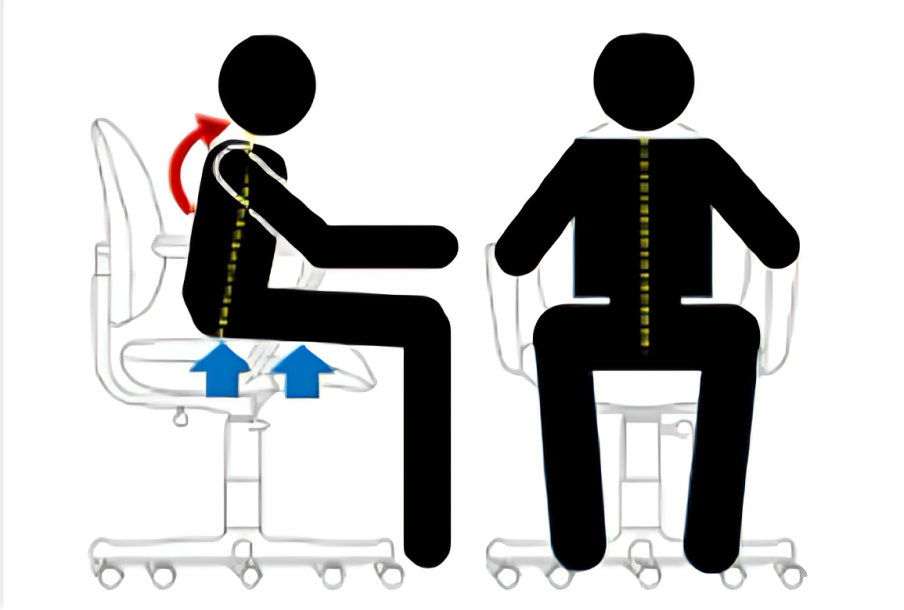
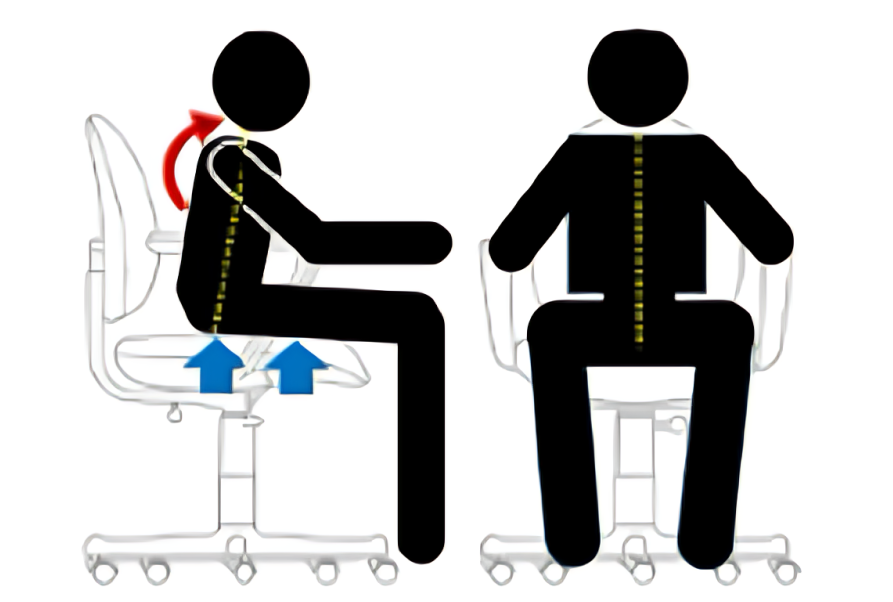
feat: add posture demo component and enhance sensor array functionality

diff --git a/lib/components/sensor-array.dart b/lib/components/sensor-array.dart
@@ -7,6 +7,7 @@ class SensorArray extends StatefulWidget {
   final double sensorSize;
   final bool showNumbers;
   final List<List<double>> sensorValues;
+  final bool flipHorizontal; // Added this parameter
 
   const SensorArray({
     super.key,
@@ -15,6 +16,7 @@ class SensorArray extends StatefulWidget {
     required this.sensorValues,
     this.sensorSize = 20.0,
     this.showNumbers = false,
+    this.flipHorizontal = false, // Default is no flip
   });
 
   @override
@@ -53,61 +55,76 @@ class _SensorArrayState extends State<SensorArray> {
   Widget build(BuildContext context) {
     return Center(
       child: Row(
-        crossAxisAlignment: CrossAxisAlignment.start,
-        mainAxisAlignment: MainAxisAlignment.center,
-        children: [
-          ColorScaleBar(
-            height: widget.cols * widget.sensorSize + (widget.cols - 1) * 1.8,
-          ),
-          Container(
+          crossAxisAlignment: CrossAxisAlignment.start,
+          mainAxisAlignment: MainAxisAlignment.center,
+          children: [
+            // Always keep color bar on the left
+            ColorScaleBar(
+              height: widget.cols * widget.sensorSize + (widget.cols - 1) * 1.8,
+            ),
+            // Only flip the grid, not its position
+            widget.flipHorizontal
+                ? Transform(
+                    alignment: Alignment.center,
+                    transform: Matrix4.identity()
+                      ..scale(-1.0, 1.0, 1.0), // Y-axis flip
+                    child: _buildSensorGrid(),
+                  )
+                : _buildSensorGrid(),
+          ]),
+    );
+  }
+
+  Widget _buildSensorGrid() {
+    return Container(
+      decoration: BoxDecoration(
+        color: Color.fromARGB(255, 0, 0, 0),
+        borderRadius: BorderRadius.circular(20),
+      ),
+      padding: EdgeInsets.all(widget.sensorSize / 1.5),
+      constraints: BoxConstraints(
+        maxWidth: widget.cols * widget.sensorSize +
+            (widget.cols - 1) * 1.8, // 2 is the margin
+        maxHeight: widget.rows * widget.sensorSize +
+            (widget.rows - 1) * 1.8, // 2 is the margin
+      ),
+      child: GridView.builder(
+        itemCount: widget.rows * widget.cols,
+        gridDelegate: SliverGridDelegateWithFixedCrossAxisCount(
+          crossAxisCount: widget.cols,
+          crossAxisSpacing: 2.0,
+          mainAxisSpacing: 2.0,
+        ),
+        itemBuilder: (context, index) {
+          int row = index ~/ widget.cols;
+          int col = widget.flipHorizontal
+              ? (widget.cols - 1) -
+                  (index % widget.cols) // Reverse column order
+              : index % widget.cols;
+          double sensorValue = widget.sensorValues[row][col];
+          sensorValue = sensorValue > 255.0 ? 255.0 : sensorValue;
+          return Container(
+            margin: const EdgeInsets.all(1.0),
+            width: widget.sensorSize,
+            height: widget.sensorSize,
             decoration: BoxDecoration(
-              color: Color.fromARGB(255, 0, 0, 0),
-              borderRadius: BorderRadius.circular(20),
+              color: _getColorFromValue(sensorValue),
+              shape: BoxShape.rectangle,
+              borderRadius: BorderRadius.circular(2),
             ),
-            padding: EdgeInsets.all(widget.sensorSize / 1.5),
-            constraints: BoxConstraints(
-              maxWidth: widget.cols * widget.sensorSize +
-                  (widget.cols - 1) * 1.8, // 2 is the margin
-              maxHeight: widget.rows * widget.sensorSize +
-                  (widget.rows - 1) * 1.8, // 2 is the margin
+            child: Center(
+              child: widget.showNumbers
+                  ? Text(
+                      '$row,$col\n${sensorValue.toStringAsFixed(2)}',
+                      style: TextStyle(
+                        fontSize: widget.sensorSize / 3,
+                        color: Colors.white,
+                      ),
+                    )
+                  : null,
             ),
-            child: GridView.builder(
-              itemCount: widget.rows * widget.cols,
-              gridDelegate: SliverGridDelegateWithFixedCrossAxisCount(
-                crossAxisCount: widget.cols,
-                crossAxisSpacing: 2.0,
-                mainAxisSpacing: 2.0,
-              ),
-              itemBuilder: (context, index) {
-                int row = index ~/ widget.cols;
-                int col = index % widget.cols;
-                double sensorValue = widget.sensorValues[row][col];
-                sensorValue = sensorValue > 255.0 ? 255.0 : sensorValue;
-                return Container(
-                  margin: const EdgeInsets.all(1.0),
-                  width: widget.sensorSize,
-                  height: widget.sensorSize,
-                  decoration: BoxDecoration(
-                    color: _getColorFromValue(sensorValue),
-                    shape: BoxShape.rectangle,
-                    borderRadius: BorderRadius.circular(2),
-                  ),
-                  child: Center(
-                    child: widget.showNumbers
-                        ? Text(
-                            '$row,$col\n${sensorValue.toStringAsFixed(2)}',
-                            style: TextStyle(
-                              fontSize: widget.sensorSize / 3,
-                              color: Colors.white,
-                            ),
-                          )
-                        : null,
-                  ),
-                );
-              },
-            ),
-          ),
-        ],
+          );
+        },
       ),
     );
   }

diff --git a/lib/main.dart b/lib/main.dart
@@ -4,6 +4,7 @@ import 'package:flutter_riverpod/flutter_riverpod.dart';
 import 'package:sit_right_app/components/card.component.dart';
 import 'package:sit_right_app/components/charts/sitting-pattern.chart.dart';
 import 'package:sit_right_app/components/charts/sitting-statistics.chart.dart';
+import 'package:sit_right_app/components/posture-demo.dart';
 import 'package:sit_right_app/components/posture-indicator.dart';
 import 'package:sit_right_app/components/charts/sitting-quality.chart.dart';
 import 'package:sit_right_app/components/simulation-control.component.dart';
@@ -165,26 +166,35 @@ class _MyHomePageState extends ConsumerState<MyHomePage> {
                 crossAxisAlignment: CrossAxisAlignment.stretch,
                 children: [
                   CardComponent(
-                    title: "Sensor Array",
+                    title: "Visual Representation",
                     flex: 2,
                     child: Column(
                       mainAxisAlignment: MainAxisAlignment.center,
                       children: [
-                        Column(
+                        Row(
                           children: [
-                            SensorArray(
-                              rows: sensorSize,
-                              cols: sensorSize,
-                              sensorSize: 190 / sensorSize,
-                              sensorValues: sensorData["backrest"] ?? [],
+                            Column(
+                              children: [
+                                SensorArray(
+                                  rows: sensorSize,
+                                  cols: sensorSize,
+                                  sensorSize: 190 / sensorSize,
+                                  sensorValues: sensorData["backrest"] ?? [],
+                                  flipHorizontal: true,
+                                ),
+                                const SizedBox(height: 10),
+                                SensorArray(
+                                  rows: sensorSize,
+                                  cols: sensorSize,
+                                  sensorSize: 190 / sensorSize,
+                                  sensorValues: sensorData["seat"] ?? [],
+                                  flipHorizontal: true,
+                                ),
+                              ],
                             ),
-                            const SizedBox(height: 10),
-                            SensorArray(
-                              rows: sensorSize,
-                              cols: sensorSize,
-                              sensorSize: 190 / sensorSize,
-                              sensorValues: sensorData["seat"] ?? [],
-                            ),
+                            PostureDemo(
+                              predictedPosture: predictedPosture,
+                            )
                           ],
                         )
                       ],
@@ -313,8 +323,8 @@ class _MyHomePageState extends ConsumerState<MyHomePage> {
                                         CardComponent(
                                           title: "Predicted Posture",
                                           child: PostureIndicator(
-                                              predictedPosture:
-                                                  predictedPosture),
+                                            predictedPosture: predictedPosture,
+                                          ),
                                         ),
                                         CardComponent(
                                             title: "AI Recommendation",

diff --git a/lib/components/posture-demo.dart b/lib/components/posture-demo.dart
@@ -1,11 +1,8 @@
 import 'package:flutter/material.dart';
 import 'package:sit_right_app/utils.dart';
 
-class PostureIndicator extends StatelessWidget {
-  const PostureIndicator({
-    super.key,
-    required this.predictedPosture,
-  });
+class PostureDemo extends StatelessWidget {
+  const PostureDemo({super.key, required this.predictedPosture});
 
   final String predictedPosture;
 
@@ -14,15 +11,11 @@ class PostureIndicator extends StatelessWidget {
     return Column(
       mainAxisAlignment: MainAxisAlignment.center,
       children: [
-        Text(
-          predictedPosture,
-          style: const TextStyle(fontSize: 30, fontWeight: FontWeight.w800),
-        ),
         Padding(
           padding: const EdgeInsets.all(10.0),
           child: Image.asset(
-            "./assets/${findPosture(predictedPosture)}.png",
-            height: 170,
+            "./assets/demo/${findPosture(predictedPosture)}.png",
+            height: 450,
           ),
         )
       ],
